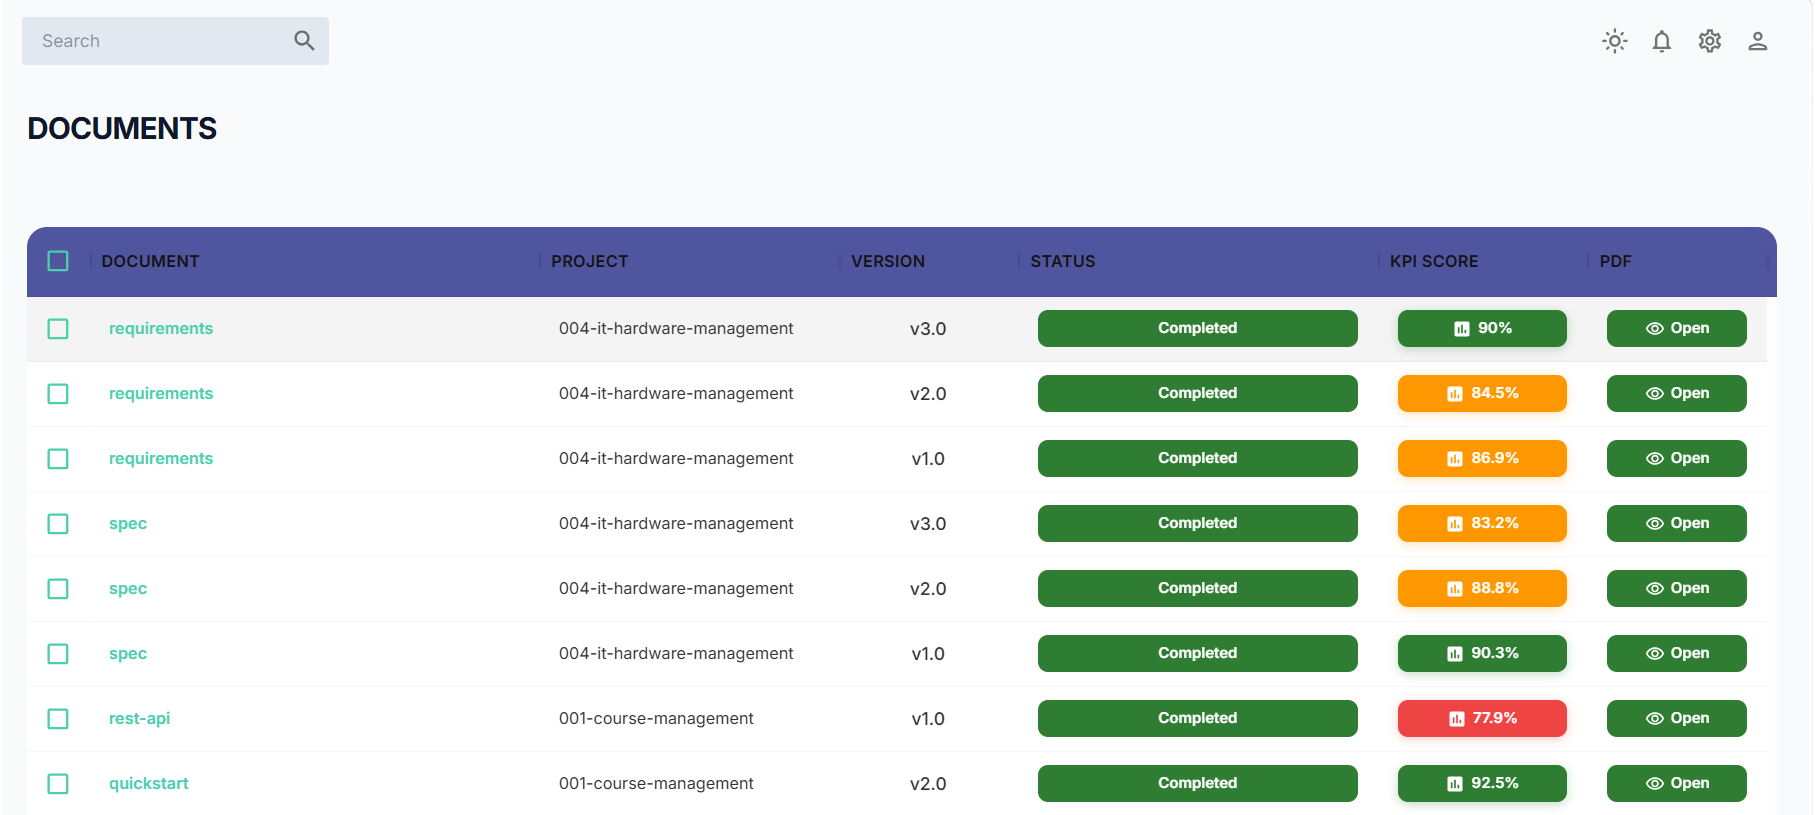
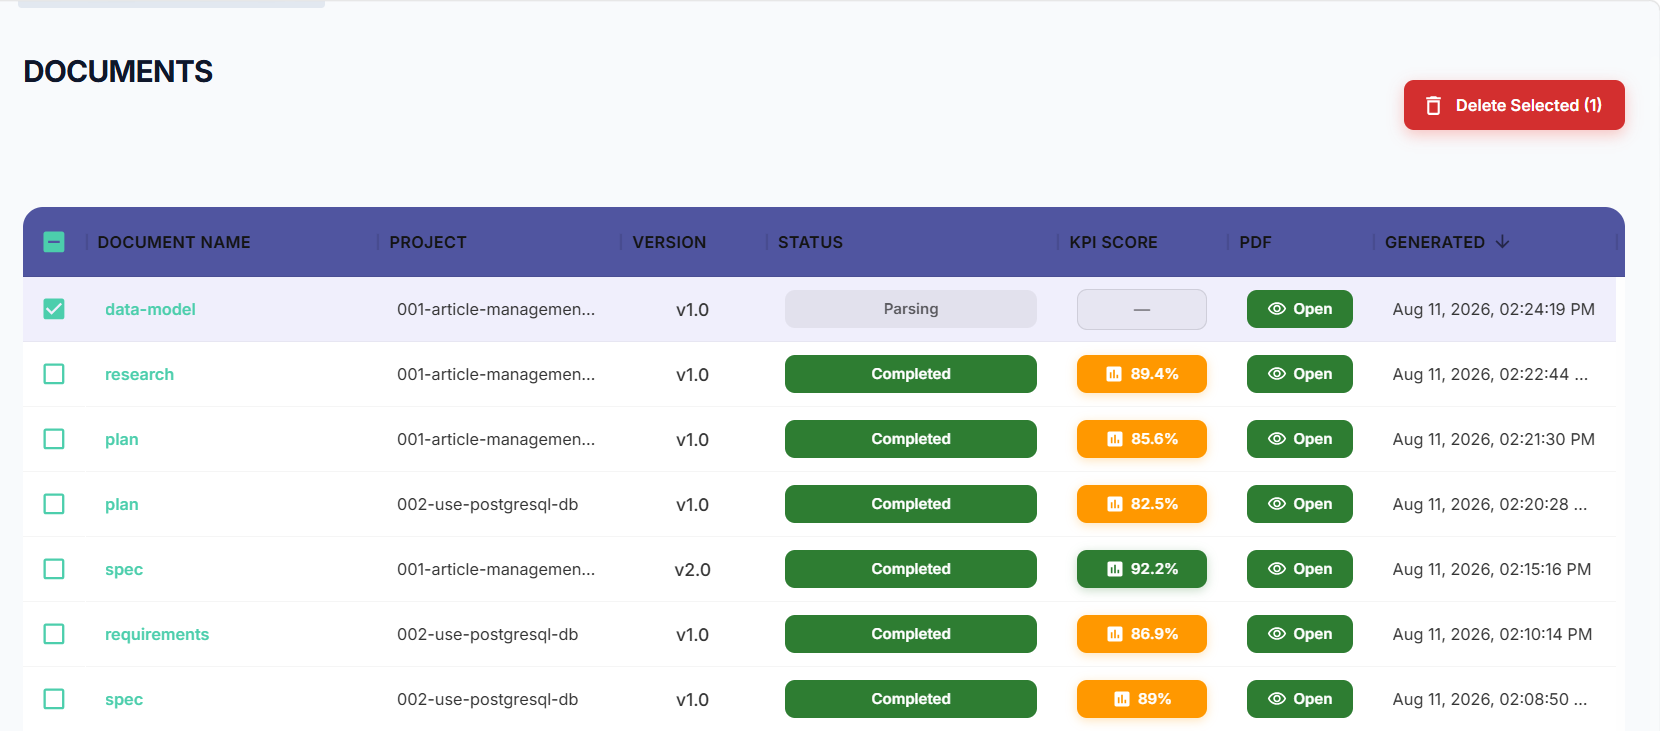
Update README.md with Jira Agent v1.0.0 +Newly Frontend + Configuration pdf

diff --git a/README.md b/README.md
@@ -10,7 +10,7 @@ Le projet est organisé de manière modulaire pour séparer l'orchestration IA, 
 
 ### 📂 Arborescence du Projet
 
-- **`/backend`** : ⚙ Pipeline d'enrichissement et d'évaluation. Propulsé par **FastAPI** et **LangGraph**, il orchestre la chaîne d'agents et gère la logique métier.
+- **`/backend`** : ⚙ Pipeline d'enrichissement et d'évaluation. Propulsé par **FastAPI** et **LangGraph**, il orchestre la chaîne d'agents et gère la logique métier, incluant l'**Agent JIRA** pour la gestion automatisée des tickets.
 - **`/frontend`** : 🖥 Dashboard **React** permettant le suivi en temps réel des exécutions, la visualisation des KPIs et le téléversement de nouveaux documents.
 - **`/scripts`** : 🛠 Watchers de fichiers et scripts d'automatisation qui font le pont entre le système de fichiers et le pipeline.
 - **`/specs`** : 📄 Dossier source des spécifications Markdown à traiter.
@@ -50,10 +50,102 @@ Le Frontend est une application React moderne utilisant **Material-UI** et **Dat
 Le système s'appuie sur une base de données PostgreSQL pour garantir l'immuabilité des versions et la traçabilité complète de chaque modification.
 
 ### 📊 Modèle de Données
+```mermaid
+erDiagram
+    projects {
+        UUID id "PK"
+        VARCHAR name
+        VARCHAR repo_url
+        DATETIME created_at
+    }
+    artifacts {
+        UUID id "PK"
+        UUID project_id "FK"
+        VARCHAR current_file_hash
+        VARCHAR source_path
+        VARCHAR artifact_type
+        DATETIME created_at
+    }
+    projects ||--o{ artifacts : references
+    doc_versions {
+        UUID id "PK"
+        UUID artifact_id "FK"
+        INTEGER version_no
+        VARCHAR version_label
+        VARCHAR pdf_path
+        VARCHAR source_file_hash
+        DATETIME generated_at
+        JSONB sections_summary
+        VARCHAR commit_hash
+        VARCHAR generated_by
+        UUID pipeline_run_id "FK"
+        FLOAT global_kpi_score
+    }
+    artifacts ||--o{ doc_versions : references
+    pipeline_runs ||--o{ doc_versions : references
+    pipeline_runs {
+        UUID id "PK"
+        UUID artifact_id "FK"
+        VARCHAR current_stage
+        JSONB structured_json
+        TEXT summary_output
+        JSONB diagram_output
+        JSONB glossary_output
+        TEXT written_doc
+        TEXT layout_output
+        JSONB parsing_eval
+        JSONB summary_eval
+        JSONB glossary_eval
+        JSONB diagram_eval
+        JSONB writer_eval
+        JSONB layout_eval
+        FLOAT global_kpi_score
+        TEXT error_message
+        DATETIME started_at
+        DATETIME completed_at
+    }
+    artifacts ||--o{ pipeline_runs : references
+    tickets {
+        UUID id "PK"
+        UUID project_id "FK"
+        UUID artifact_id "FK"
+        VARCHAR source_path
+        VARCHAR title
+        TEXT description
+        VARCHAR status
+        INTEGER position
+        VARCHAR checkbox_state
+        VARCHAR file_hash
+        DATETIME created_at
+        DATETIME updated_at
+    }
+    artifacts ||--o{ tickets : references
+    projects ||--o{ tickets : references
+    ticket_events {
+        UUID id "PK"
+        UUID ticket_id "FK"
+        VARCHAR event_type
+        VARCHAR author_type
+        JSONB payload
+        DATETIME created_at
+    }
+    tickets ||--o{ ticket_events : references
+    ticket_comments {
+        UUID id "PK"
+        UUID ticket_id "FK"
+        VARCHAR author_type
+        TEXT body
+        DATETIME created_at
+    }
+    tickets ||--o{ ticket_comments : references
+```
+### 📋 Description des Tables
 - **`projects`** : L'entité parente regroupant tous les artefacts et exécutions d'un projet spécifique.
 - **`artifacts`** : Registre des fichiers sources surveillés dans `specs/`, incluant une empreinte **SHA-256** pour détecter précisément chaque modification.
 - **`pipeline_runs`** : Journalisation exhaustive de chaque exécution, stockant les métriques **JSONB** détaillées pour chacun des 6 agents du pipeline.
 - **`doc_versions`** : Registre immuable gérant le versioning dynamique des documents et le lien vers les fichiers PDF certifiés.
+- **`tickets` & `ticket_events`** : Système de traçabilité des tâches (User Stories, Tasks) synchronisé avec l'avancement du projet via l'Agent JIRA.
+
 
 ---
 
@@ -131,6 +223,123 @@ vsce publish  # mode interactif
 > Scopes : **Marketplace > Manage (Publish, Manage)**
 
 ---
+
+---
+
+### 🧪 Guide de Test : Nouveau Projet avec l'Extension VS Code
+
+> **Objectif** : Tester l'extension AgentDocx SpecKit sur un **nouveau projet** (dossier séparé, hors du repo source).
+
+#### 1. Prérequis
+- Extension **installée via .vsix** (voir section ci-dessus)
+- **PostgreSQL** en cours d'exécution
+- Dépendances Python installées à la racine du **repo source** :
+  ```bash
+  pip install -r requirements.txt
+  ```
+
+#### 2. Créer le projet de test
+```bash
+mkdir mon-projet-test && cd mon-projet-test
+```
+
+#### 3. Configuration obligatoire : `.vscode/settings.json`
+Créez ce fichier à la racine du **projet de test** (pas dans le repo source) :
+
+```json
+{
+  "agentdocx-speckit": {
+    "projectPath": "specs",
+    "projectName": "mon-projet-test",
+    "apiPort": 8000,
+    "backendPath": "C:/Users/VOTRE_USER/chemin/vers/copy-extension-github-spec-kit/backend",
+    "reload": false
+  }
+}
+```
+
+| Clé | Obligatoire | Description |
+|-----|-------------|-------------|
+| `projectPath` | ✅ | Dossier à surveiller (relatif à la racine du projet test) |
+| `projectName` | ✅ | Identifiant envoyé au pipeline |
+| `apiPort` | ✅ | Port FastAPI (par défaut 8000) |
+| `backendPath` | ✅ | **Chemin ABSOLU** vers le dossier `backend` du **repo source** |
+| `reload` | ❌ | `false` recommandé sur Windows pour éviter erreurs uvicorn |
+
+> ⚠ **Important** : `backendPath` doit pointer vers le `backend` du **repo source** (celui qui contient `app/main.py`), pas vers une copie locale.
+
+#### 4. Créer le dossier specs
+```bash
+mkdir specs
+```
+
+#### 5. Ouvrir dans VS Code
+```bash
+code .
+```
+L'extension démarre automatiquement :
+- **AgentDocx Server** → FastAPI sur `http://127.0.0.1:8000`
+- **AgentDocx Watcher** → Surveille `specs/`
+
+Vérifiez les logs : `View` → `Output` → dropdown `AgentDocx Server` / `AgentDocx Watcher`
+
+#### 6. Tester le pipeline
+Créez un fichier markdown dans `specs/` :
+```bash
+echo "# Exigences\n\nLe système doit gérer les utilisateurs." > specs/requirements.md
+```
+Le watcher détecte le changement → appelle `/api/v1/pipeline/upload` → pipeline s'exécute.
+
+#### 7. Vérifier les résultats
+- **Logs Server** : progression agents (Parsing → Summary → Glossary → Diagram → DocWriter → Layout)
+- **Frontend** (si lancé) : onglet Documents → nouvelle entrée avec KPIs
+- **Outputs** : PDF générés dans `outputs/<projectName>/pdf/`
+
+---
+
+### 📁 Structure attendue du projet de test
+
+```
+mon-projet-test/
+├── .vscode/
+│   └── settings.json       # ← Configuration obligatoire
+├── specs/                  # ← Créé manuellement
+│   ├── requirements.md
+│   ├── spec.md
+│   └── ...
+├── src/                    # Votre code applicatif (optionnel)
+└── package.json            # Votre projet (optionnel)
+```
+
+---
+
+### 🔧 Dépannage courant
+
+| Problème | Solution |
+|----------|----------|
+| Watcher ne démarre pas | Vérifiez `AgentDocx Watcher` output : erreur import `watchdog` → `pip install watchdog` |
+| Server erreur "No module named app" | `backendPath` incorrect dans settings.json → doit pointer vers `backend` du repo source |
+| Port 8000 occupé | Changez `apiPort` dans settings.json (ex: 8001) |
+| Pipeline 404/422 | Extension utilise `/upload` (multipart), pas `/run` (JSON) — déjà corrigé dans scripts installés |
+| Pas de logs dans Output | Rechargez fenêtre : `Ctrl+R` |
+
+---
+
+### 🔄 Workflow multi-projets
+
+Chaque projet de test a **sa propre config** dans son `.vscode/settings.json` :
+
+```
+projet-A/
+  .vscode/settings.json   # projectName: "projet-A", projectPath: "specs"
+  specs/
+
+projet-B/
+  .vscode/settings.json   # projectName: "projet-B", projectPath: "docs/specs"
+  docs/specs/
+```
+
+L'extension lit la config du **workspace actif** — pas de conflit entre projets.
 
 ---
 
@@ -259,3 +468,4 @@ ollama launch claude
 ---
 
 *Dernière mise à jour : 2026-07-31 — Spec Kit v0.0.2 (Extension en développement)*
+
